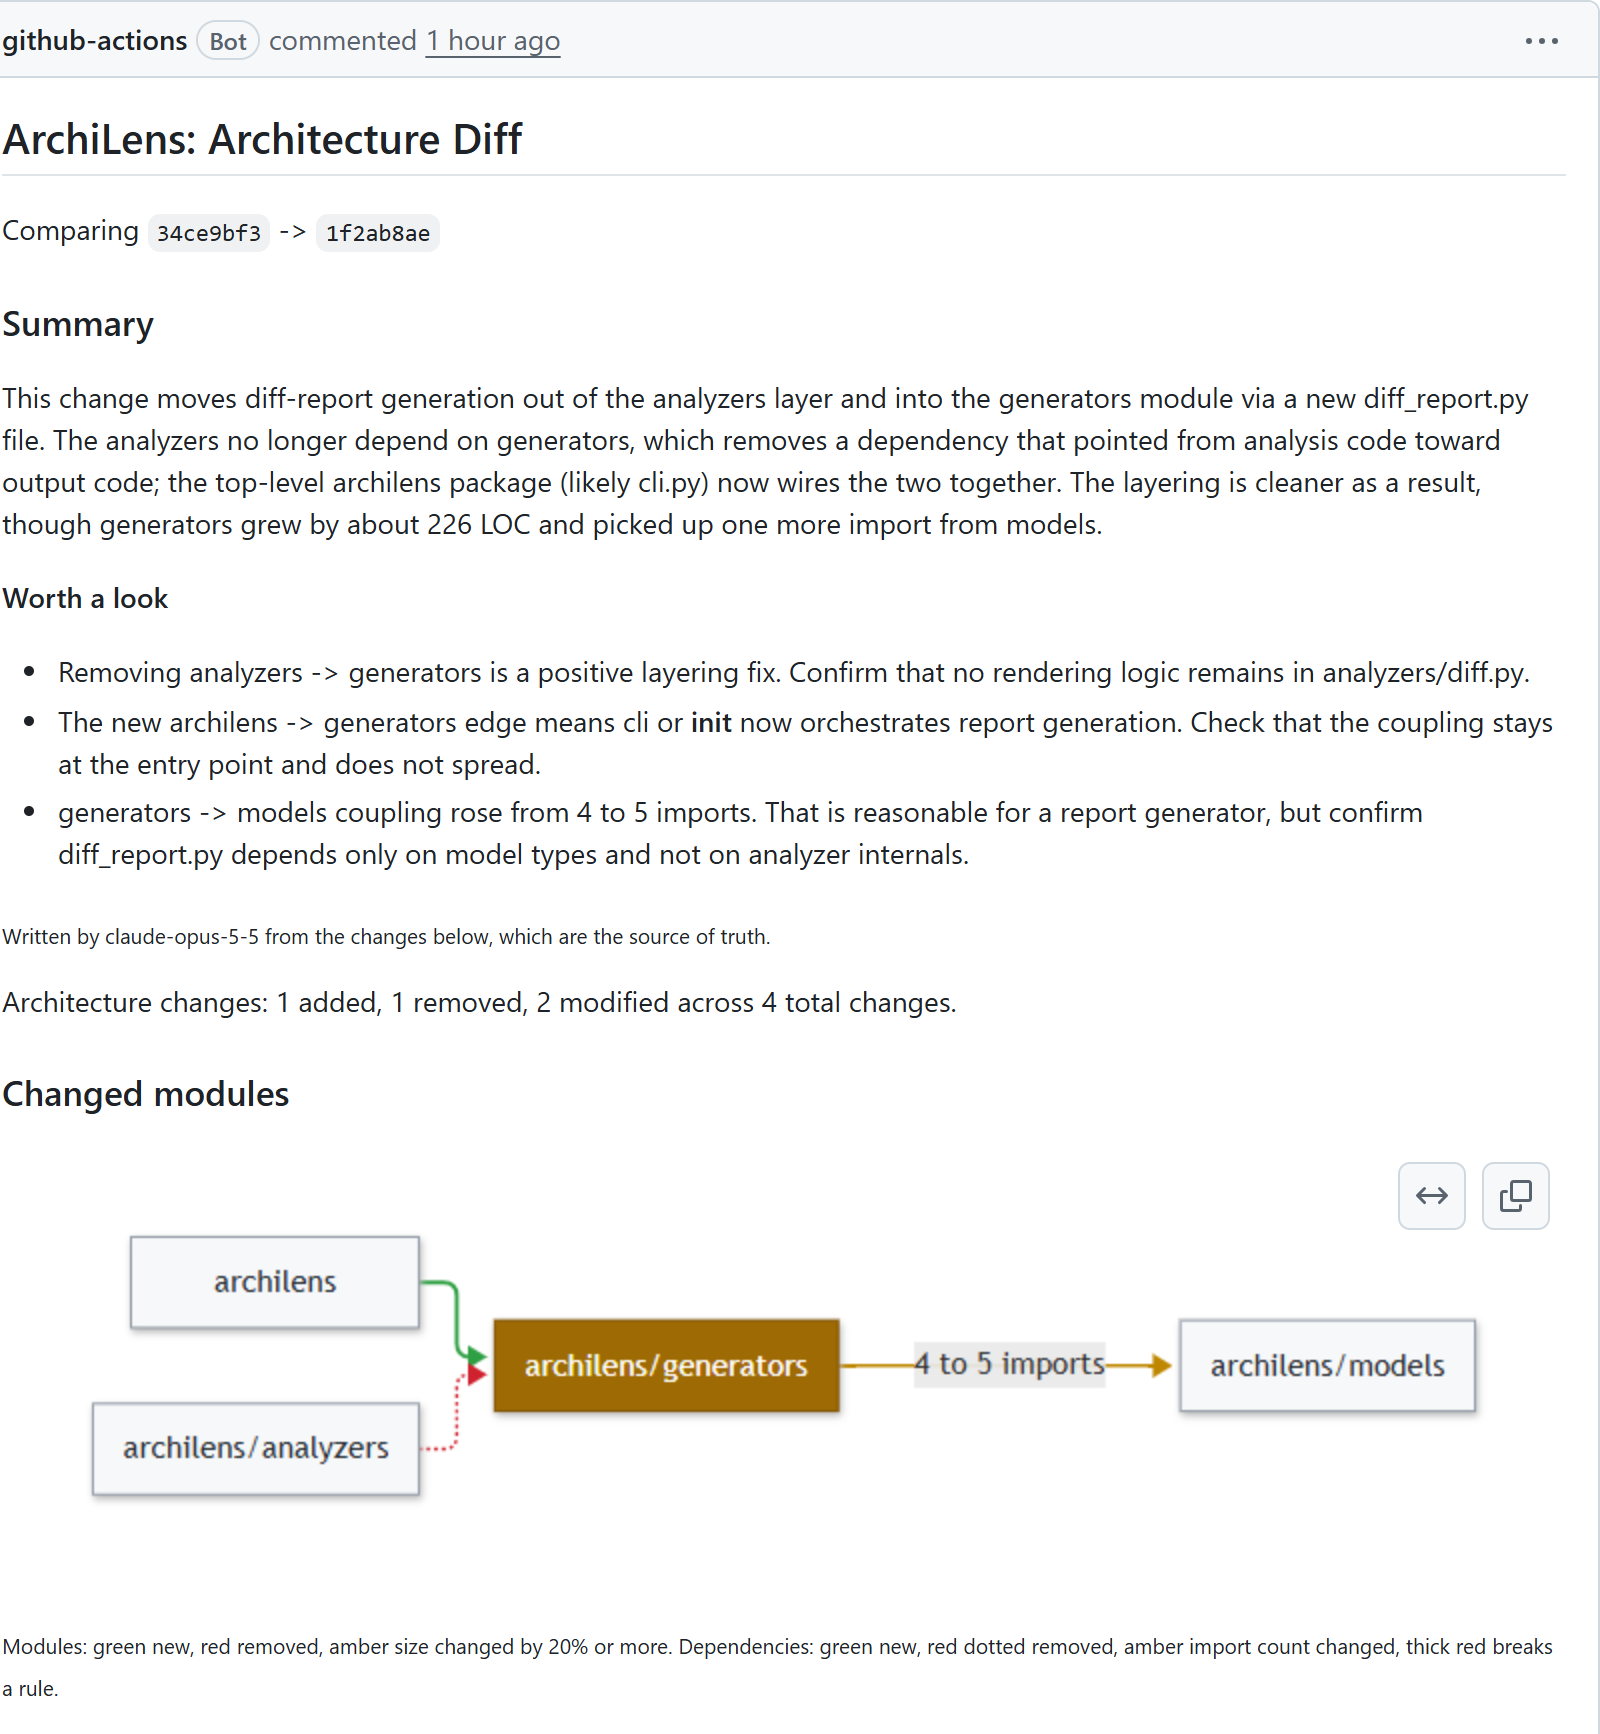
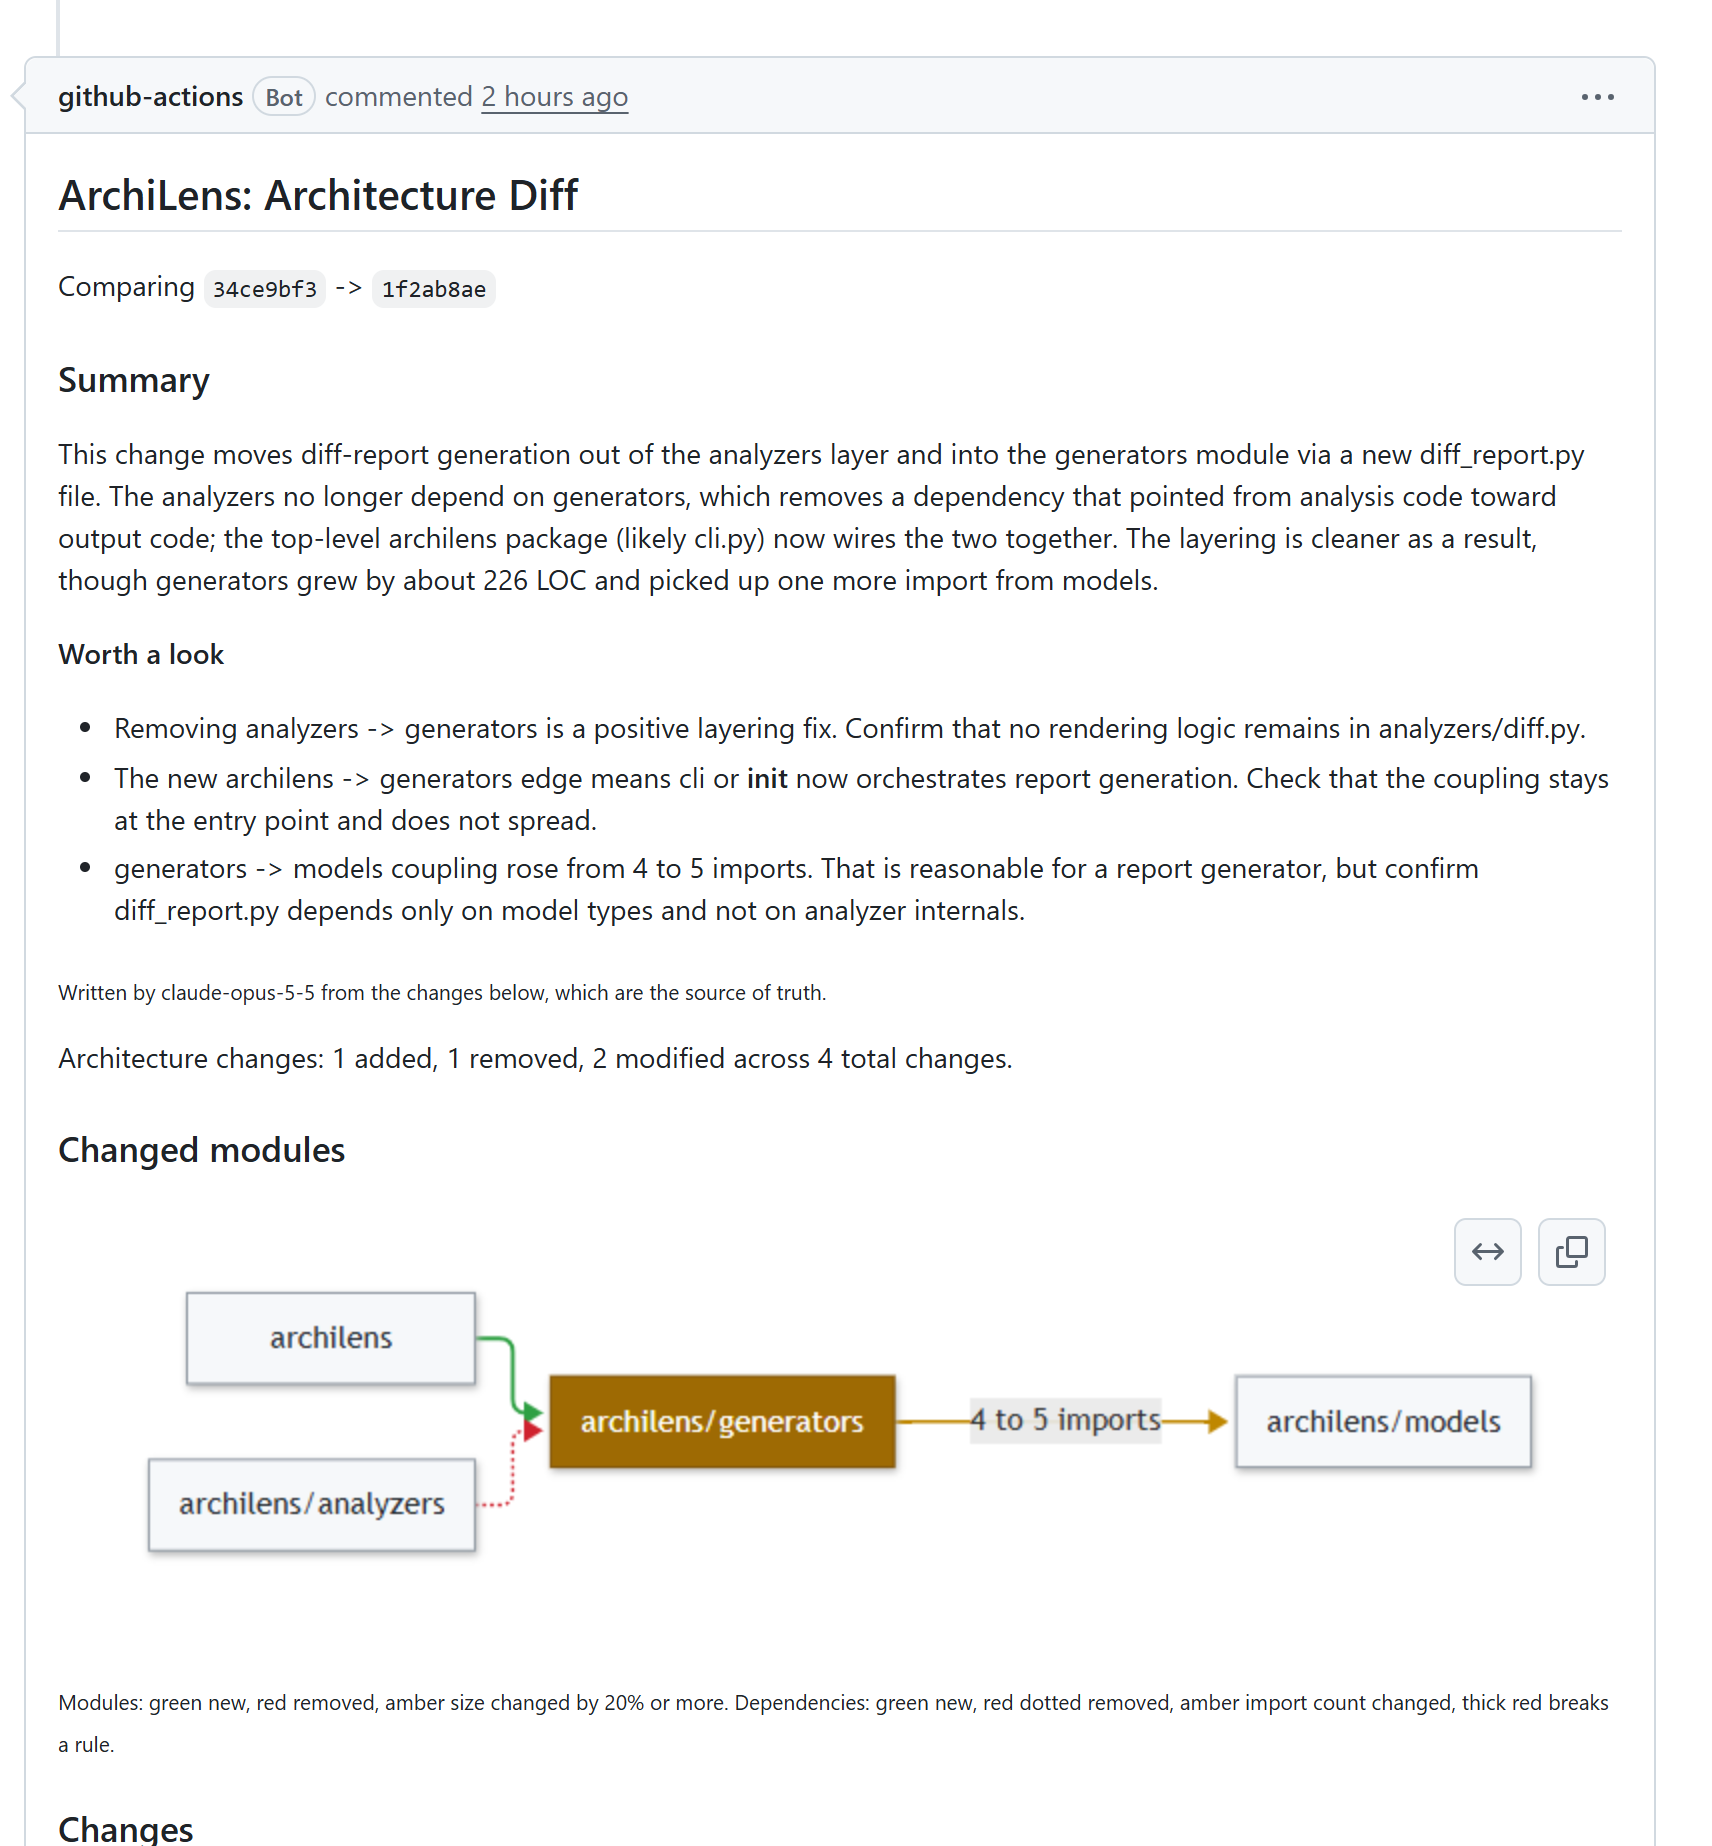
docs: website colour pass; pad the PR-comment screenshots
Raise small-text contrast, green "verified" dot instead of red, drop
rose, gradient stat numbers, readable Mermaid cluster titles, and the
1:1 stage view opens centred. The screenshot script clips with 28px of
padding and both images are re-captured with it.

diff --git a/docs/index.html b/docs/index.html
@@ -29,13 +29,12 @@
       --line-2: rgba(148,163,184,.28);
       --text: #e8edf5;
       --muted: #98a2b8;
-      --dim: #64748b;
+      --dim: #7b879c;
       --blue: #5aa9ff;
       --violet: #a78bfa;
       --cyan: #67e8f9;
       --green: #4ade80;
       --amber: #fbbf24;
-      --rose: #fb7185;
       --grad: linear-gradient(135deg, #3b82f6 0%, #8b5cf6 55%, #22d3ee 100%);
       --grad-soft: linear-gradient(135deg, rgba(59,130,246,.25), rgba(139,92,246,.18) 55%, rgba(34,211,238,.18));
       --radius: 18px;
@@ -232,7 +231,7 @@
     /* Stats */
     .stats { display: grid; grid-template-columns: repeat(4, 1fr); gap: 14px; margin-top: 40px; }
     .stat { padding: 18px 20px; border-radius: 14px; border: 1px solid var(--line); background: var(--card); }
-    .stat .n { font-size: 32px; font-weight: 800; letter-spacing: -.03em; line-height: 1; }
+    .stat .n { font-size: 32px; font-weight: 800; letter-spacing: -.03em; line-height: 1; background: var(--grad); -webkit-background-clip: text; background-clip: text; color: transparent; display: inline-block; }
     .stat .n small { font-size: 16px; color: var(--muted); font-weight: 600; margin-left: 2px; }
     .stat .l { margin-top: 6px; font-size: 13px; color: var(--muted); }
 
@@ -303,7 +302,7 @@
     .tab.on { background: var(--grad); color: #fff; box-shadow: 0 6px 18px -8px rgba(99,102,241,.9); }
     .tab:hover:not(.on) { color: var(--text); background: rgba(255,255,255,.05); }
     .stage-note { font-size: 12px; color: var(--dim); display: inline-flex; align-items: center; gap: 8px; }
-    .stage-note .rec { width: 8px; height: 8px; border-radius: 50%; background: var(--rose); box-shadow: 0 0 0 4px rgba(251,113,133,.2); animation: blink 1.6s steps(2) infinite; }
+    .stage-note .rec { width: 8px; height: 8px; border-radius: 50%; background: var(--green); box-shadow: 0 0 0 4px rgba(74,222,128,.18); animation: blink 1.6s steps(2) infinite; }
     .stage-view { position: relative; height: clamp(380px, 58vh, 640px); perspective: 1200px; }
     .level-view {
       position: absolute; inset: 0; padding: 18px; overflow: auto; display: grid; place-items: center;
@@ -314,6 +313,9 @@
     .level-view.passed { opacity: 0; transform: scale(1.5) translateZ(160px); filter: blur(10px); }
     .level-view .mermaid { width: 100%; display: grid; place-items: center; }
     .level-view .mermaid svg { max-width: 100% !important; height: auto; }
+    /* Mermaid 11 ignores titleColor for flowchart clusters: subgraph names were navy on navy. */
+    .level-view svg .cluster-label text, .level-view svg .cluster-label span, .level-view svg .cluster text { fill: #e8edf5 !important; color: #e8edf5 !important; font-weight: 600; }
+    .level-view svg .edgeLabel, .level-view svg .edgeLabel p { color: #cbd5e1 !important; }
     .stage-view.actual .level-view { place-items: start; }
     .stage-view.actual .level-view .mermaid { width: max-content; min-width: 100%; }
     .stage-view.actual .level-view .mermaid svg { max-width: none !important; width: var(--natural, auto) !important; }
@@ -699,7 +701,7 @@
         <div class="frame-scene">
           <div class="frame" id="frame">
             <div class="frame-bar"><i style="background:#ff5f57"></i><i style="background:#febc2e"></i><i style="background:#28c840"></i><span class="url">github.com/saurabh-oss/archilens/pull/23</span></div>
-            <img src="images/pr-comment-ai-review.png" width="1600" height="1734" loading="lazy" alt="ArchiLens comment on pull request 23: an AI summary of the architectural change, three points worth a look, and a diagram of the changed modules and dependencies">
+            <img src="images/pr-comment-ai-review.png" width="1712" height="1846" loading="lazy" alt="ArchiLens comment on pull request 23: an AI summary of the architectural change, three points worth a look, and a diagram of the changed modules and dependencies">
           </div>
         </div>
         <div class="frame-links">
@@ -728,7 +730,7 @@
           <p>Impact summary, points worth a look, a one-line description of each new module, and the process flow of any entry point the PR adds. Anthropic by default; other providers through LiteLLM.</p>
           <span class="tag">enable-ai: "true"</span>
         </div>
-        <div class="shot"><img src="images/pr-comment-full.png" width="1600" height="2470" loading="lazy" alt="A full ArchiLens pull request comment"></div>
+        <div class="shot"><img src="images/pr-comment-full.png" width="1712" height="2580" loading="lazy" alt="A full ArchiLens pull request comment"></div>
       </div>
 
       <div class="card tilt reveal" style="--i:1">
@@ -1216,6 +1218,9 @@
   $$('#zoom button').forEach(b => b.addEventListener('click', () => {
     $$('#zoom button').forEach(x => x.classList.toggle('on', x === b));
     $('#stageView').classList.toggle('actual', b.dataset.zoom === 'actual');
+    // At natural size, start in the middle of the drawing rather than its empty top-left corner.
+    const v = views[level];
+    v.scrollTo({ left: (v.scrollWidth - v.clientWidth) / 2, top: (v.scrollHeight - v.clientHeight) / 2 });
   }));
   steps.forEach(s => s.addEventListener('click', () => setLevel(+s.dataset.level, true)));
   if (matchMedia('(min-width: 1025px)').matches) {
@@ -1229,7 +1234,8 @@
       startOnLoad: false, theme: 'base',
       themeVariables: {
         darkMode: true, background: '#0b1120', primaryColor: '#1d4ed8', primaryTextColor: '#e8edf5', primaryBorderColor: '#3b82f6',
-        lineColor: '#94a3b8', secondaryColor: '#1e293b', tertiaryColor: '#111827', clusterBkg: 'rgba(99,102,241,.10)', clusterBorder: '#6366f1',
+        lineColor: '#94a3b8', secondaryColor: '#1e293b', tertiaryColor: '#111827', clusterBkg: 'rgba(99,102,241,.14)', clusterBorder: '#6366f1',
+        titleColor: '#e8edf5', nodeTextColor: '#ffffff', textColor: '#e8edf5', actorLineColor: '#475569', activationBkgColor: '#1e293b', activationBorderColor: '#64748b',
         edgeLabelBackground: '#111827', fontFamily: 'Inter, system-ui, sans-serif', fontSize: '13px',
         actorBkg: '#1d4ed8', actorBorder: '#3b82f6', actorTextColor: '#fff', signalColor: '#cbd5e1', signalTextColor: '#e8edf5',
         labelBoxBkgColor: '#1e293b', labelBoxBorderColor: '#475569', labelTextColor: '#e8edf5', loopTextColor: '#e8edf5',

diff --git a/scripts/pr_comment_screenshot.py b/scripts/pr_comment_screenshot.py
@@ -49,17 +49,21 @@ with sync_playwright() as p:
         if candidate.count():
             frame = candidate.first
             break
-    frame.screenshot(path=full_path)
-
-    box = page.evaluate(
-        """([frameEl, bodyEl]) => {
+    # Both shots are page clips padded by PAD, so the comment never sits flush
+    # against the image edge; the page background around it is white.
+    PAD = 28
+    boxes = page.evaluate(
+        """([frameEl, bodyEl, pad]) => {
             const f = frameEl.getBoundingClientRect();
             const changes = [...bodyEl.querySelectorAll('h3')].find(h => h.textContent.trim() === 'Changes');
-            const bottom = changes ? changes.getBoundingClientRect().top - 8 : f.bottom;
-            return {x: f.left + scrollX, y: f.top + scrollY, width: f.width, height: bottom - f.top};
+            const cut = changes ? changes.getBoundingClientRect().top - 8 : f.bottom;
+            const clip = (bottom) => ({x: f.left + scrollX - pad, y: f.top + scrollY - pad,
+                                       width: f.width + 2 * pad, height: bottom - f.top + 2 * pad});
+            return {full: clip(f.bottom), top: clip(cut)};
         }""",
-        [frame.element_handle(), body.element_handle()],
+        [frame.element_handle(), body.element_handle(), PAD],
     )
-    page.screenshot(path=top_path, clip=box, full_page=True)
-    print("full:", frame.bounding_box(), "top:", box)
+    page.screenshot(path=full_path, clip=boxes["full"], full_page=True)
+    page.screenshot(path=top_path, clip=boxes["top"], full_page=True)
+    print("full:", boxes["full"], "top:", boxes["top"])
     browser.close()
